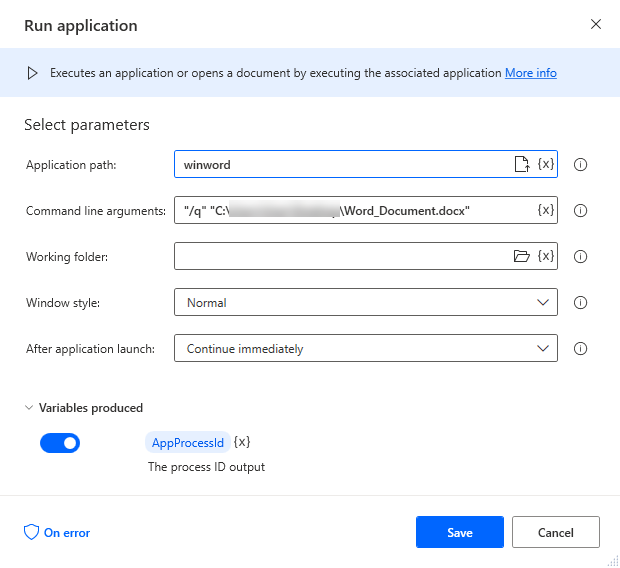
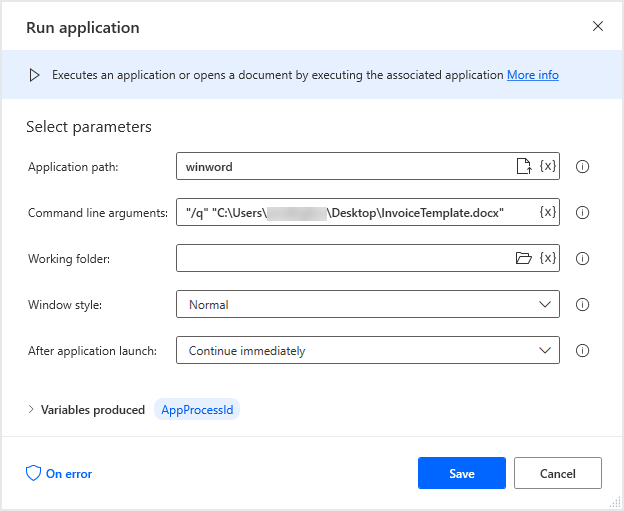
Updated system actions ref

diff --git a/articles/desktop-flows/actions-reference/system.md b/articles/desktop-flows/actions-reference/system.md
@@ -77,6 +77,12 @@ Executes an application or opens a document by executing the associated applicat
 |Can't retrieve application's main window handle|Indicates a problem retrieving the application's main window handle|
 |Can't execute application or open file|Indicates a problem executing the specified application or opening the specified file|
 
+>[!IMPORTANT]
+>The Application path field has to point to the executable of the application. Certain default windows applications can be opened by entering **notepad** or **calc** for calculator.
+>
+>Any command line arguments have to be entered in double quotes and separated by a space. For example, to open Microsoft Word in quiet mode with the file InvoiceTemplate.docx from the user's desktop, format the field like so:
+>**"/q" "C:\Users\omelnykov\Desktop\InvoiceTemplate.docx"**
+
 ##### <a name="runapplicationbase_example"></a> Example
 ![Run application action example](media\system\run-application-example.png)
 
